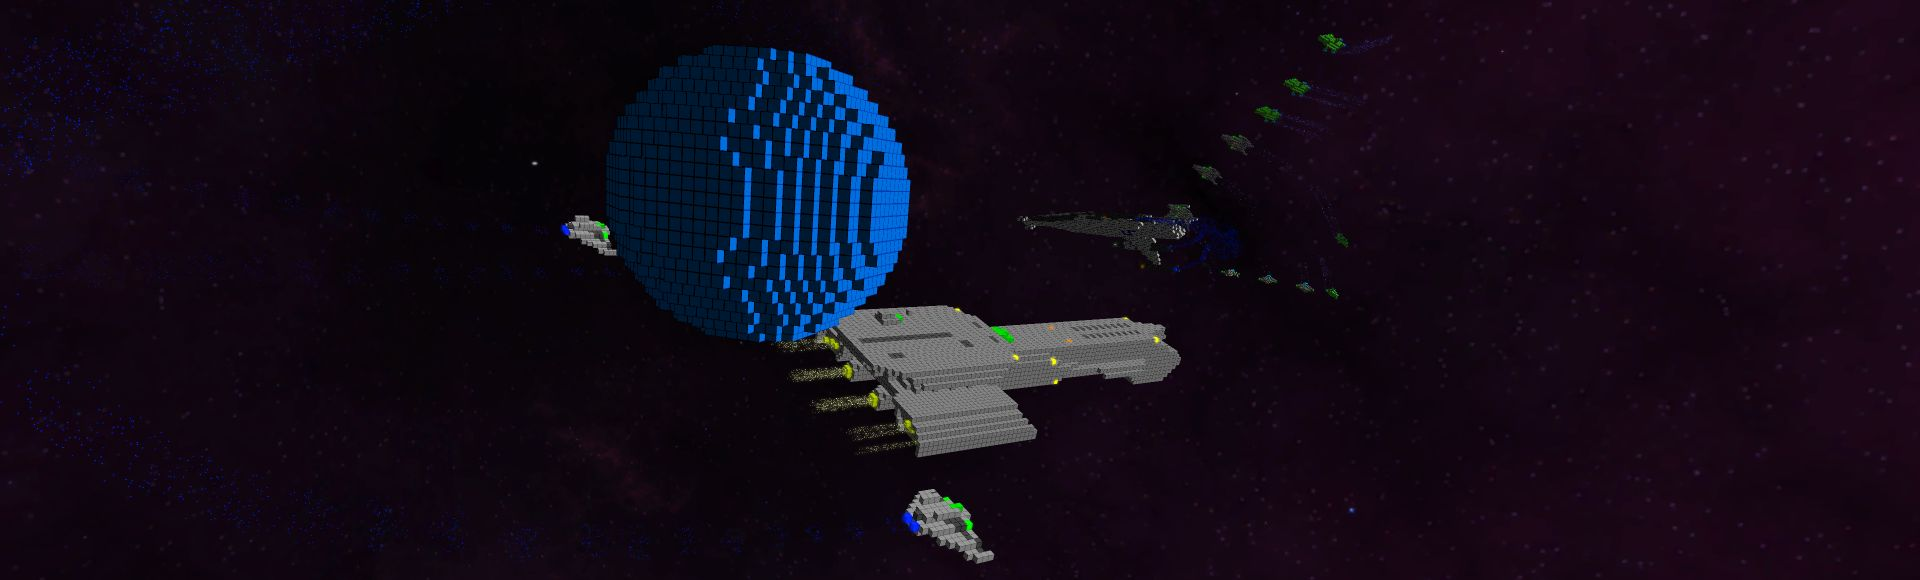
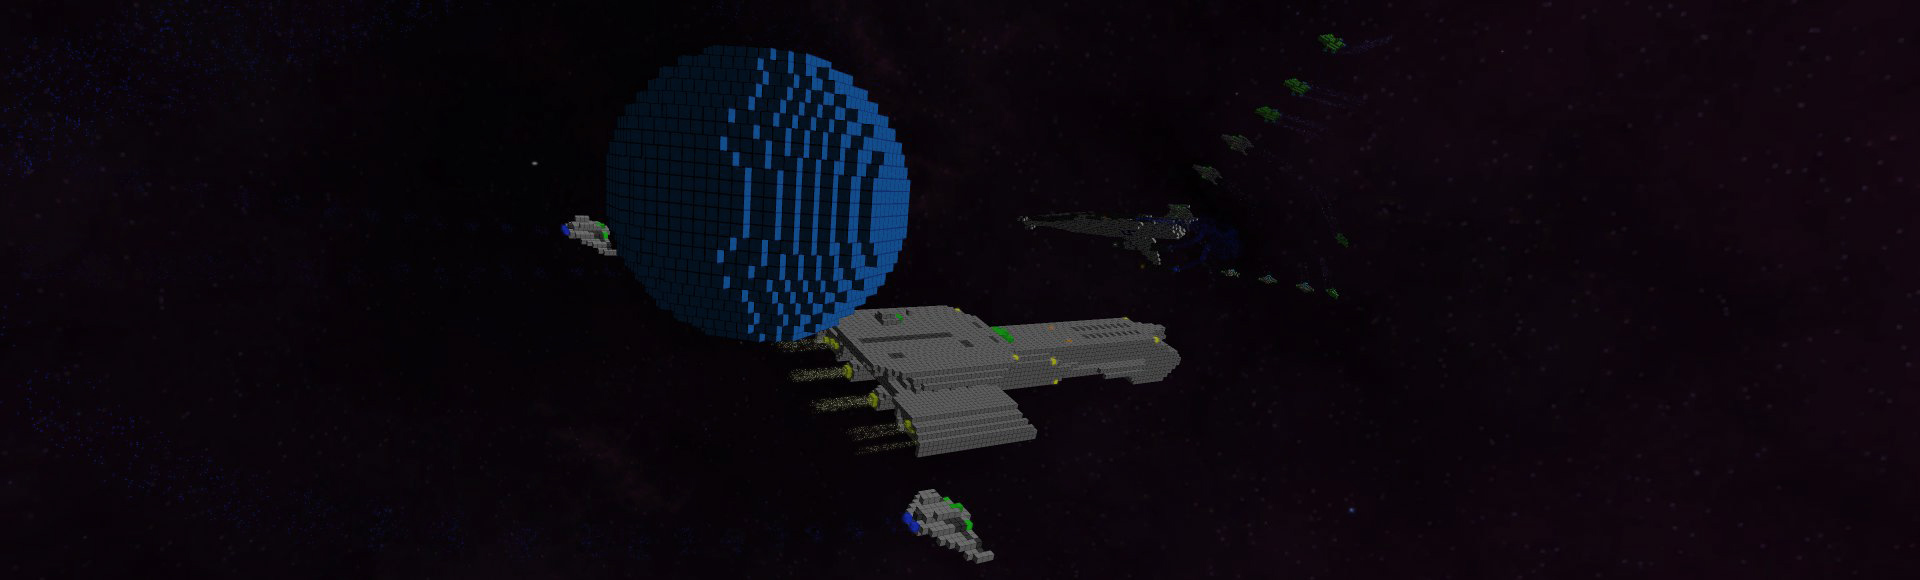
format html, use cdn for js/css again, darker download screenshot

diff --git a/index.html b/index.html
@@ -2,173 +2,202 @@
 <html lang="en">
 
 <head>
-    <meta charset="utf-8">
-    <meta name="viewport" content="width=device-width, initial-scale=1.0">
+	<meta charset="utf-8" />
+	<meta name="viewport" content="width=device-width, initial-scale=1.0">
 
-    <meta name="description" content="a game about voxels in space.">
-    <meta name="author" content="voxelinc">
-    <meta property="og:title" content="Voxellancer" />
-    <meta property="og:url" content="http://voxelinc.github.io/voxellancer-web/" /> 
-    <meta property="og:description" content="A game about voxels in space." />  
-    <meta property="og:image" content="http://voxelinc.github.io/voxellancer-web/img/intro-bg.jpg" /> 
-    <meta property="og:image:secure_url" content="https://voxelinc.github.io/voxellancer-web/img/intro-bg.jpg" />
+	<meta name="description" content="a game about voxels in space.">
+	<meta name="author" content="voxelinc">
+	<meta property="og:title" content="Voxellancer">
+	<meta property="og:url" content="http://voxelinc.github.io/voxellancer-web/">
+	<meta property="og:description" content="A game about voxels in space.">
+	<meta property="og:image" content="http://voxelinc.github.io/voxellancer-web/img/intro-bg.jpg">
+	<meta property="og:image:secure_url" content="https://voxelinc.github.io/voxellancer-web/img/intro-bg.jpg">
 
-    <title>Voxellancer</title>
+	<title>Voxellancer</title>
 
-    <!-- Bootstrap Core CSS -->
-    <link href="css/bootstrap.min.css" rel="stylesheet" type="text/css">
+	<!-- Bootstrap Core CSS -->
+	<link href="http://netdna.bootstrapcdn.com/bootstrap/3.0.3/css/bootstrap.min.css" rel="stylesheet" type="text/css">
 
-    <!-- Fonts -->
-    <link href="css/font-awesome.min.css" rel="stylesheet" type="text/css">
-    <link href='http://fonts.googleapis.com/css?family=Lora:400,700,400italic,700italic' rel='stylesheet' type='text/css'>
-    <link href='http://fonts.googleapis.com/css?family=Montserrat:400,700' rel='stylesheet' type='text/css'>
+	<!-- Fonts -->
+	<link href="http://netdna.bootstrapcdn.com/font-awesome/4.0.3/css/font-awesome.min.css" rel="stylesheet" type="text/css">
+	<link href='http://fonts.googleapis.com/css?family=Lora:400,700,400italic,700italic' rel='stylesheet' type='text/css'>
+	<link href='http://fonts.googleapis.com/css?family=Montserrat:400,700' rel='stylesheet' type='text/css'>
 
-    <!-- Custom Theme CSS -->
-    <link href="css/grayscale.css" rel="stylesheet">
+	<!-- Custom Theme CSS -->
+	<link href="css/grayscale.css" rel="stylesheet">
 
 </head>
 
 <body id="page-top" data-spy="scroll" data-target=".navbar-custom">
 
-    <nav class="navbar navbar-custom navbar-fixed-top" role="navigation">
-        <div class="container">
-            <div class="navbar-header page-scroll">
-                <button type="button" class="navbar-toggle" data-toggle="collapse" data-target=".navbar-main-collapse">
-                    <i class="fa fa-bars"></i>
-                </button>
-                <a class="navbar-brand" href="#page-top">
-                    <i class="fa fa-play-circle"></i>  <span class="light">Voxellancer</span>
-                </a>
-            </div>
+	<nav class="navbar navbar-custom navbar-fixed-top" role="navigation">
+		<div class="container">
+			<div class="navbar-header page-scroll">
+				<button type="button" class="navbar-toggle" data-toggle="collapse" data-target=".navbar-main-collapse">
+					<i class="fa fa-bars"></i>
+				</button>
+				<a class="navbar-brand" href="#page-top">
+					<i class="fa fa-play-circle"></i>  <span class="light">Voxellancer</span>
+				</a>
+			</div>
 
-            <!-- Collect the nav links, forms, and other content for toggling -->
-            <div class="collapse navbar-collapse navbar-right navbar-main-collapse">
-                <ul class="nav navbar-nav">
-                    <!-- Hidden li included to remove active class from about link when scrolled up past about section -->
-                    <li class="hidden">
-                        <a href="#page-top"></a>
-                    </li>
-                    <li class="page-scroll">
-                        <a href="#about">About</a>
-                    </li>
-                    <li class="page-scroll">
-                        <a href="#download">Download</a>
-                    </li>
-                    <li class="page-scroll">
-                        <a href="#contact">Contact</a>
-                    </li>                    
-                    <li class="page-scroll">
-                        <a href="#documentation">Documentation</a>
-                    </li>
+			<!-- Collect the nav links, forms, and other content for toggling -->
+			<div class="collapse navbar-collapse navbar-right navbar-main-collapse">
+				<ul class="nav navbar-nav">
+					<!-- Hidden li included to remove active class from about link when scrolled up past about section -->
+					<li class="hidden">
+						<a href="#page-top"></a>
+					</li>
+					<li class="page-scroll">
+						<a href="#about">About</a>
+					</li>
+					<li class="page-scroll">
+						<a href="#download">Download</a>
+					</li>
+					<li class="page-scroll">
+						<a href="#contact">Contact</a>
+					</li>                    
+					<li class="page-scroll">
+						<a href="#documentation">Documentation</a>
+					</li>
 
-                </ul>
-            </div>
-            <!-- /.navbar-collapse -->
-        </div>
-        <!-- /.container -->
-    </nav>
+				</ul>
+			</div>
+			<!-- /.navbar-collapse -->
+		</div>
+		<!-- /.container -->
+	</nav>
 
-    <section class="intro">
-        <div class="intro-body">
-            <div class="container">
-                <div class="row">
-                    <div class="col-md-8 col-md-offset-2">
-                        <h1 class="brand-heading">Voxellancer</h1>
-                        <p class="intro-text">A game about voxels in space.</p>
-                        <div class="page-scroll">
-                            <a href="#about" class="btn btn-circle">
-                                <i class="fa fa-angle-double-down animated"></i>
-                            </a>
-                        </div>
-                    </div>
-                </div>
-            </div>
-        </div>
-    </section>
+	<section class="intro">
+		<div class="intro-body">
+			<div class="container">
+				<div class="row">
+					<div class="col-md-8 col-md-offset-2">
+						<h1 class="brand-heading">Voxellancer</h1>
+						<p class="intro-text">A game about voxels in space.</p>
+						<div class="page-scroll">
+							<a href="#about" class="btn btn-circle">
+								<i class="fa fa-angle-double-down animated"></i>
+							</a>
+						</div>
+					</div>
+				</div>
+			</div>
+		</div>
+	</section>
 
-    <section id="about" class="container content-section text-center">
-        <div class="row">
-            <div class="col-lg-8 col-lg-offset-2">
-                <h2>About Voxellancer</h2>
-                <p>Voxellancer is a game created by a group of 4 students from the <a href="http://www.hpi.uni-potsdam.de">HPI</a>.</p>
-                <p>Voxellancer features destroyable, voxelbased spaceships, modern graphics, enemies with group behaviour, factions, reloadable shader, -scripts and -configurations. It has a beautiful bloom shader, a highly configurable starfield effect, OculusRift support, a voxel based, spherical hud, it supports ssaa and fxaa antialiasing and makes lots of use of instanced rendering for best performance.</p>
-                <p>Voxellancer makes use of the following technolog: <a href="http://glm.g-truc.net">GLM</a>, <a href="http://glew.sourceforge.net">GLEW</a>, <a href="http://www.glfw.org/">GLFW</a>, <a href="https://github.com/hpicgs/glow">GLOW</a>, <a href="http://www.lua.org/">Lua</a>, the awesome C++11 bindings of <a href="https://github.com/lanice/elemate">Elemate</a>, <a href="http://www.sfml-dev.org">SFML Audio</a>, <a href="https://developer.oculusvr.com/">OculusSDK</a> and <a href="http://banditcpp.org">bandit tests</a>.</p>
-                
-                <p> <iframe id="ytplayer" type="text/html" width="640" height="390" src="http://www.youtube.com/embed/xZY43QSx3Fk" frameborder="0"></iframe></p>
-                (real video coming soon, watch this trailer instead)
-            </div>
-        </div>
-    </section>
+	<section id="about" class="container content-section text-center">
+		<div class="row">
+			<div class="col-lg-8 col-lg-offset-2">
+				<h2>About Voxellancer</h2>
+				<p>Voxellancer is a game created by a group of 4 students from the <a href="http://www.hpi.uni-potsdam.de">HPI</a>.</p>
+				<p>Voxellancer features destroyable, voxelbased spaceships, modern graphics, enemies with group behaviour, factions, reloadable shader, -scripts and -configurations. It has a beautiful bloom shader, a highly configurable starfield effect, OculusRift support, a voxel based, spherical hud, it supports ssaa and fxaa antialiasing and makes lots of use of instanced rendering for best performance.</p>
+				<p>Voxellancer makes use of the following technolog: <a href="http://glm.g-truc.net">GLM</a>, <a href="http://glew.sourceforge.net">GLEW</a>, <a href="http://www.glfw.org/">GLFW</a>, <a href="https://github.com/hpicgs/glow">GLOW</a>, <a href="http://www.lua.org/">Lua</a>, the awesome C++11 bindings of <a href="https://github.com/lanice/elemate">Elemate</a>, <a href="http://www.sfml-dev.org">SFML Audio</a>, <a href="https://developer.oculusvr.com/">OculusSDK</a> and <a href="http://banditcpp.org">bandit tests</a>.</p>
+				
+				<p> <iframe id="ytplayer" type="text/html" width="640" height="390" src="http://www.youtube.com/embed/xZY43QSx3Fk" frameborder="0"></iframe></p>
+				(real video coming soon, watch this trailer instead)
+				<p />
+				<p>want to tell others? share it on:</p>
+				<ul class="list-inline banner-social-buttons">
+					<li>
+						<a href="http://www.facebook.com/sharer.php?u=http://voxelinc.github.io/voxellancer-web/" class="btn btn-default btn-lg">
+							<i class="fa fa-facebook fa-fw"></i> Facebook
+						</a>
+					</li>
+					<li>
+						<a href="https://plus.google.com/share?url=http://voxelinc.github.io/voxellancer-web/" class="btn btn-default btn-lg">
+							<i class="fa fa-google-plus fa-fw"></i> Google+
+						</a>
+					</li>
+				</ul>
+			</div>
+		</div>
+	</section>
 
-    <section id="download" class="content-section text-center">
-        <div class="download-section">
-            <div class="container">
-                <div class="col-lg-8 col-lg-offset-2">
-                    <h2>Download Voxellancer</h2>
-                    <p>You can download Voxellancer here.</p>
-                    <p>You can also get the source code directly from GitHub if you prefer. To get build instructions and
-                        a better overview about the code you can look at the <span class="page-scroll"><a href="#documentation">documentation</a></span>.</p>
-                    <ul class="list-inline">
-                        <li><a href="voxellancer-0.2.0-win64.exe" class="btn btn-default btn-lg"><i class="fa fa-cloud-download fa-fw"></i> Download</a></li>
-                        <li><a href="https://github.com/voxelinc/voxellancer" class="btn btn-default btn-lg"><i class="fa fa-github fa-fw"></i> Github</a></li>
-                    </ul>
-                    <p></p>
-                </div>
-            </div>
-        </div>
-    </section>
+	<section id="download" class="content-section text-center">
+		<div class="download-section">
+			<div class="container">
+				<div class="col-lg-8 col-lg-offset-2">
+					<h2>Download Voxellancer</h2>
+					<p>You can download Voxellancer here.</p>
+					<p>You can also get the source code directly from GitHub if you prefer. To get build instructions and
+						a better overview about the code you can look at the <span class="page-scroll"><a href="#documentation">documentation</a></span>.</p>
+					<ul class="list-inline">
+						<li>
+							<a href="voxellancer-0.2.0-win64.exe" class="btn btn-default btn-lg">
+								<i class="fa fa-windows fa-fw"></i> (coming soon)
+							</a>
+						</li>
+						<li>
+							<a href="voxellancer-0.2.0-win64.exe" class="btn btn-default btn-lg">
+								<i class="fa fa-linux fa-fw"></i> (coming soon)
+							</a>
+						</li>
+						<li>
+							<a href="https://github.com/voxelinc/voxellancer" class="btn btn-default btn-lg">
+								<i class="fa fa-github fa-fw"></i> Github
+							</a>
+						</li>
+					</ul>
+					<p />
+				</div>
+			</div>
+		</div>
+	</section>
 
-    <section id="contact" class="container content-section text-center">
-        <div class="row">
-            <div class="col-lg-8 col-lg-offset-2">
-                <h2>Contact Voxellancer</h2>
-                <p>Feel free to email us to provide some feedback, give us suggestions about new features or to just say hello!</p>
-                <p>voxellancer@chrdw.de</p>
-                <p>or share it on:</p>
-                <ul class="list-inline banner-social-buttons">
-                    <li><a href="http://www.facebook.com/sharer.php?u=http://voxelinc.github.io/voxellancer-web/" class="btn btn-default btn-lg"><i class="fa fa-facebook fa-fw"></i> <span class="network-name">Facebook</span></a>
-                    </li>
-                    <li><a href="https://plus.google.com/share?url=http://voxelinc.github.io/voxellancer-web/" class="btn btn-default btn-lg"><i class="fa fa-google-plus fa-fw"></i> <span class="network-name">Google+</span></a>
-                    </li>
-                </ul>
-            </div>
-        </div>
-    </section>
+	<section id="contact" class="container content-section text-center">
+		<div class="row">
+			<div class="col-lg-8 col-lg-offset-2">
+				<h2>Contact Voxellancer</h2>
+				<p>Feel free to email us to provide some feedback, give us suggestions about new features or to just say hello!</p>
+				<p>voxellancer@chrdw.de</p>
+			</div>
+		</div>
+	</section>
 
-    <section id="documentation" class="content-section text-center">
-        <div class="documentation-section">
-            <div class="container">
-                <div class="col-lg-8 col-lg-offset-2">
-                    <h2>Documentation</h2>
-                    <p>We provide doxygen documentation as html and pdf.</p>
-                    <p>The documentation contains general information like build instructions, an overview of the lua api and configuration options and information about the classes with class- and collaboration diagrams.</p>
-                    <ul class="list-inline">
-                        <li><a href="doxygen/index.html" class="btn btn-default btn-lg"><i class="fa fa-code fa-fw"></i> HTML</a></li>
-                        <li><a href="refman.pdf" class="btn btn-default btn-lg"><i class="fa fa-file fa-fw"></i> PDF</a></li>
-                </div>
-            </div>
-        </div>
-    </section>
+	<section id="documentation" class="content-section text-center">
+		<div class="documentation-section">
+			<div class="container">
+				<div class="col-lg-8 col-lg-offset-2">
+					<h2>Documentation</h2>
+					<p>We provide doxygen documentation as html and pdf.</p>
+					<p>The documentation contains general information like build instructions, an overview of the lua api and the configuration options and information about the classes with class- and collaboration diagrams.</p>
+					<ul class="list-inline">
+						<li>
+							<a href="doxygen/index.html" class="btn btn-default btn-lg">
+								<i class="fa fa-code fa-fw"></i> HTML
+							</a>
+						</li>
+						<li>
+							<a href="refman.pdf" class="btn btn-default btn-lg">
+								<i class="fa fa-file fa-fw"></i> PDF
+							</a>
+						</li>
+					</ul>
+				</div>
+			</div>
+		</div>
+	</section>
 
-    <section id="footer" class="content-section text-center">
-        <div class="footer-section">
-            <div class="container">
-                <div class="col-lg-8 col-lg-offset-2">
-                    <p></p>
-                       powered by <a href="http://startbootstrap.com/grayscale">Grayscale</a>
-                    <p></p>
-                </div>
-            </div>
-        </div>
-    </section>
+	<section id="footer" class="content-section text-center">
+		<div class="footer-section">
+			<div class="container"> 
+				<div class="col-lg-8 col-lg-offset-2">
+					<p></p>
+					   powered by <a href="http://startbootstrap.com/grayscale">Grayscale</a>
+					<p></p>
+				</div>
+			</div>
+		</div>
+	</section>
 
-    <!-- Core JavaScript Files -->
-    <script src="js/jquery.min.js"></script>
-    <script src="js/bootstrap.min.js"></script>
-    <script src="js/jquery.easing.min.js"></script>
+	<!-- Core JavaScript Files -->
+	<script src="https://ajax.googleapis.com/ajax/libs/jquery/1.10.2/jquery.min.js"></script>
+	<script src="http://netdna.bootstrapcdn.com/bootstrap/3.0.3/js/bootstrap.min.js"></script>
+	<script src="http://cdnjs.cloudflare.com/ajax/libs/jquery-easing/1.3/jquery.easing.min.js"></script>
 
-    <!-- Custom Theme JavaScript -->
-    <script src="js/grayscale.js"></script>
+	<!-- Custom Theme JavaScript -->
+	<script src="js/grayscale.js"></script>
 
 </body>
 

diff --git a/js/grayscale.js b/js/grayscale.js
@@ -9,7 +9,7 @@ function updateNavbar() {
 
 //jQuery to collapse the navbar on scroll
 $(window).scroll(updateNavbar);
-$(document).ready(updateNavbar);
+$(document).ready(setTimeout(updateNavbar, 500));
 
 //jQuery for page scrolling feature - requires jQuery Easing plugin
 $(function() {
